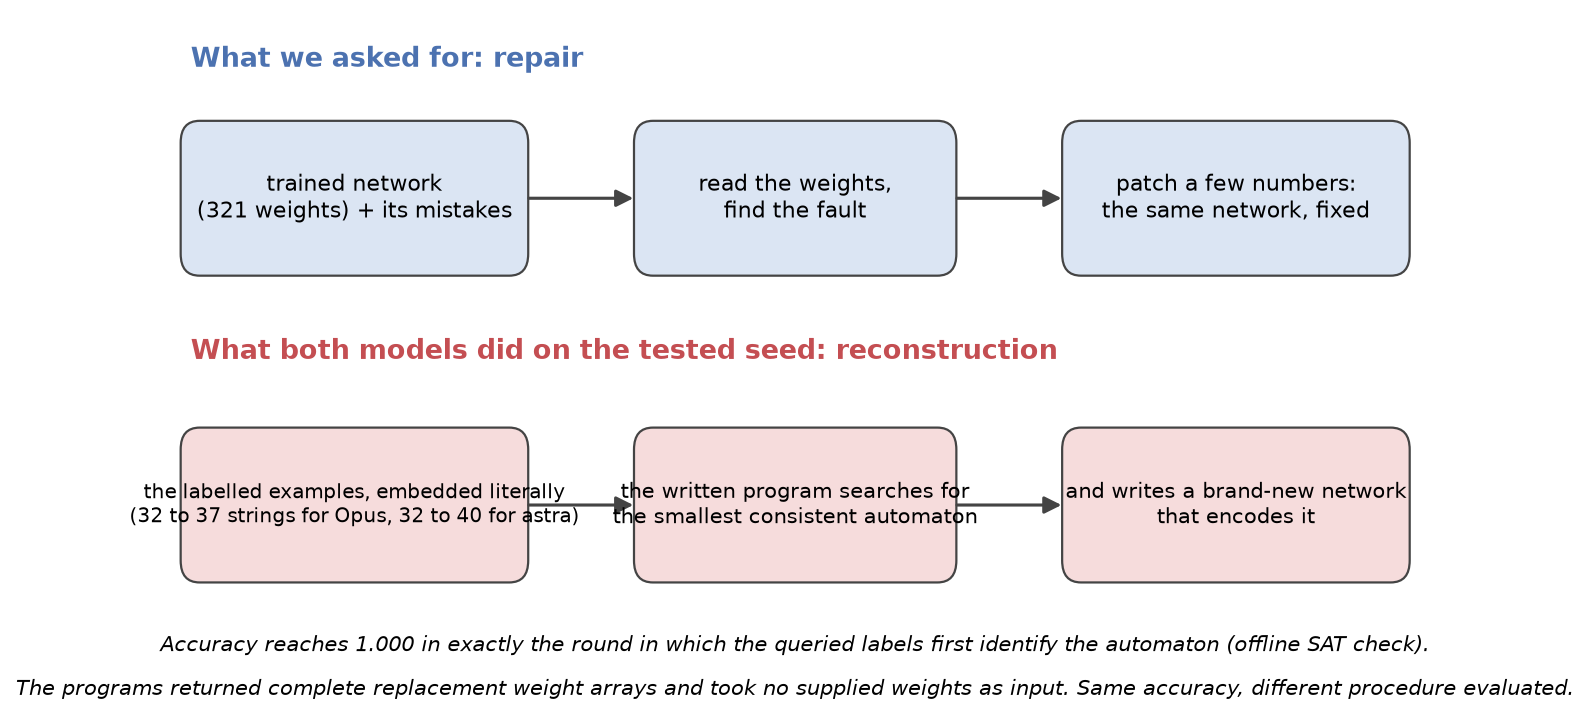
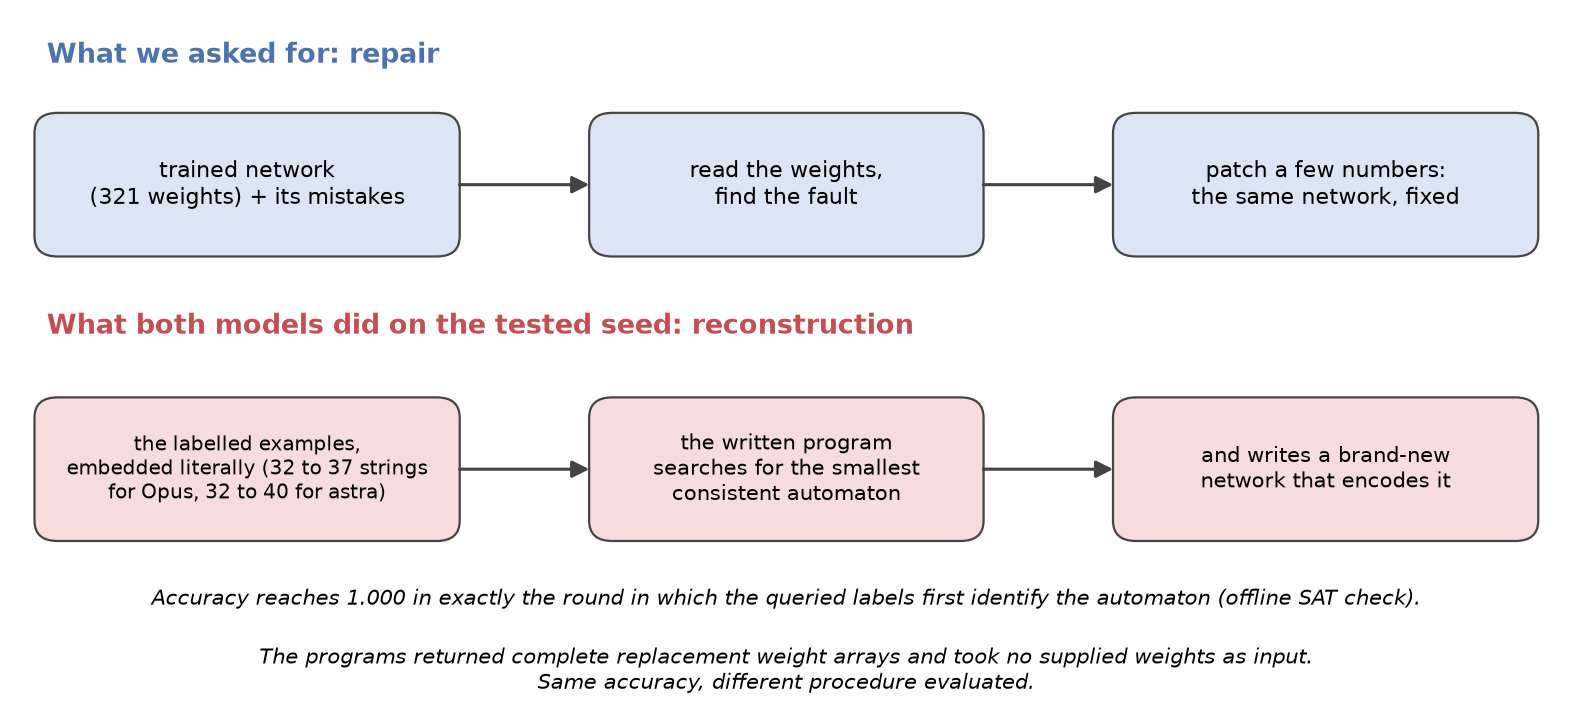
Figures: legible diagram text; star marker instead of overlapping annotations

diff --git a/docs/make_figures.py b/docs/make_figures.py
@@ -32,10 +32,10 @@ ax.text(0.2, 4.25, "What we asked for: repair", fontsize=12, fontweight="bold", 
 box(0.2, 2.9, 2.6, 0.9, "trained network\n(321 weights) + its mistakes", "#dbe5f3"); box(3.8, 2.9, 2.4, 0.9, "read the weights,\nfind the fault", "#dbe5f3"); box(7.2, 2.9, 2.6, 0.9, "patch a few numbers:\nthe same network, fixed", "#dbe5f3")
 arrow(2.85, 3.35, 3.75, 3.35); arrow(6.25, 3.35, 7.15, 3.35)
 ax.text(0.2, 2.25, "What both models did on the tested seed: reconstruction", fontsize=12, fontweight="bold", color="#C44E52")
-box(0.2, 0.8, 2.6, 0.9, "the labelled examples, embedded literally\n(32 to 37 strings for Opus, 32 to 40 for astra)", "#f6dcdc", fs=9); box(3.8, 0.8, 2.4, 0.9, "the written program searches for\nthe smallest consistent automaton", "#f6dcdc", fs=9.5); box(7.2, 0.8, 2.6, 0.9, "and writes a brand-new network\nthat encodes it", "#f6dcdc", fs=9.5)
+box(0.2, 0.8, 2.6, 0.9, "the labelled examples,\nembedded literally (32 to 37 strings\nfor Opus, 32 to 40 for astra)", "#f6dcdc", fs=9); box(3.8, 0.8, 2.4, 0.9, "the written program\nsearches for the smallest\nconsistent automaton", "#f6dcdc", fs=9.5); box(7.2, 0.8, 2.6, 0.9, "and writes a brand-new\nnetwork that encodes it", "#f6dcdc", fs=9.5)
 arrow(2.85, 1.25, 3.75, 1.25); arrow(6.25, 1.25, 7.15, 1.25)
 ax.text(5, 0.25, "Accuracy reaches 1.000 in exactly the round in which the queried labels first identify the automaton (offline SAT check).", ha="center", fontsize=9.5, style="italic")
-ax.text(5, -0.05, "The programs returned complete replacement weight arrays and took no supplied weights as input. Same accuracy, different procedure evaluated.", ha="center", fontsize=9.5, style="italic")
+ax.text(5, -0.05, "The programs returned complete replacement weight arrays and took no supplied weights as input.\nSame accuracy, different procedure evaluated.", ha="center", va="top", fontsize=9.5, style="italic")
 fig.tight_layout(); fig.savefig(OUT + "fig0-reconstruction.png", dpi=160, bbox_inches="tight"); plt.close(fig)
 
 # Figure 1: construction pilot
@@ -47,9 +47,13 @@ for ax, (f, title) in zip(axes, [(R + "pilot/run/results.json", "Claude Opus 5.5
         ax.plot(x, y, marker=mk, label=lab)
         for r in rs:
             if (r.get("sat") or {}).get("ambiguity") == "unique":
-                ax.annotate("queried labels first\nidentify the automaton", (r["round"], r["heldout"]), textcoords="offset points", xytext=(0, -34), ha="center", fontsize=8, arrowprops=dict(arrowstyle="-", lw=0.6)); break
+                ax.plot([r["round"]], [r["heldout"]], marker="*", ms=16, mfc="none", mec="k", mew=1.2, ls="none", label="_nolegend_"); break
     ax.set_title(title); ax.set_xlabel("round"); ax.set_xticks(x); ax.set_ylim(0.45, 1.03); ax.axhline(0.5, color="grey", lw=0.6, ls=":")
-axes[0].set_ylabel("held-out accuracy (500 strings)"); axes[0].legend(loc="lower left", fontsize=9)
+axes[0].set_ylabel("held-out accuracy (500 strings)")
+from matplotlib.lines import Line2D
+h, l = axes[0].get_legend_handles_labels()
+h.append(Line2D([], [], marker="*", ms=12, mfc="none", mec="k", mew=1.2, ls="none")); l.append("first round the queried labels identify the automaton")
+axes[0].legend(h, l, loc="lower left", fontsize=8.5)
 fig.suptitle("Experiment 1, unconstrained construction, one seed: accuracy reaches 1.000 in the round the queried labels first identify the automaton", fontsize=10.5)
 fig.tight_layout(); fig.savefig(OUT + "fig1-construction.png", dpi=160); plt.close(fig)
 
